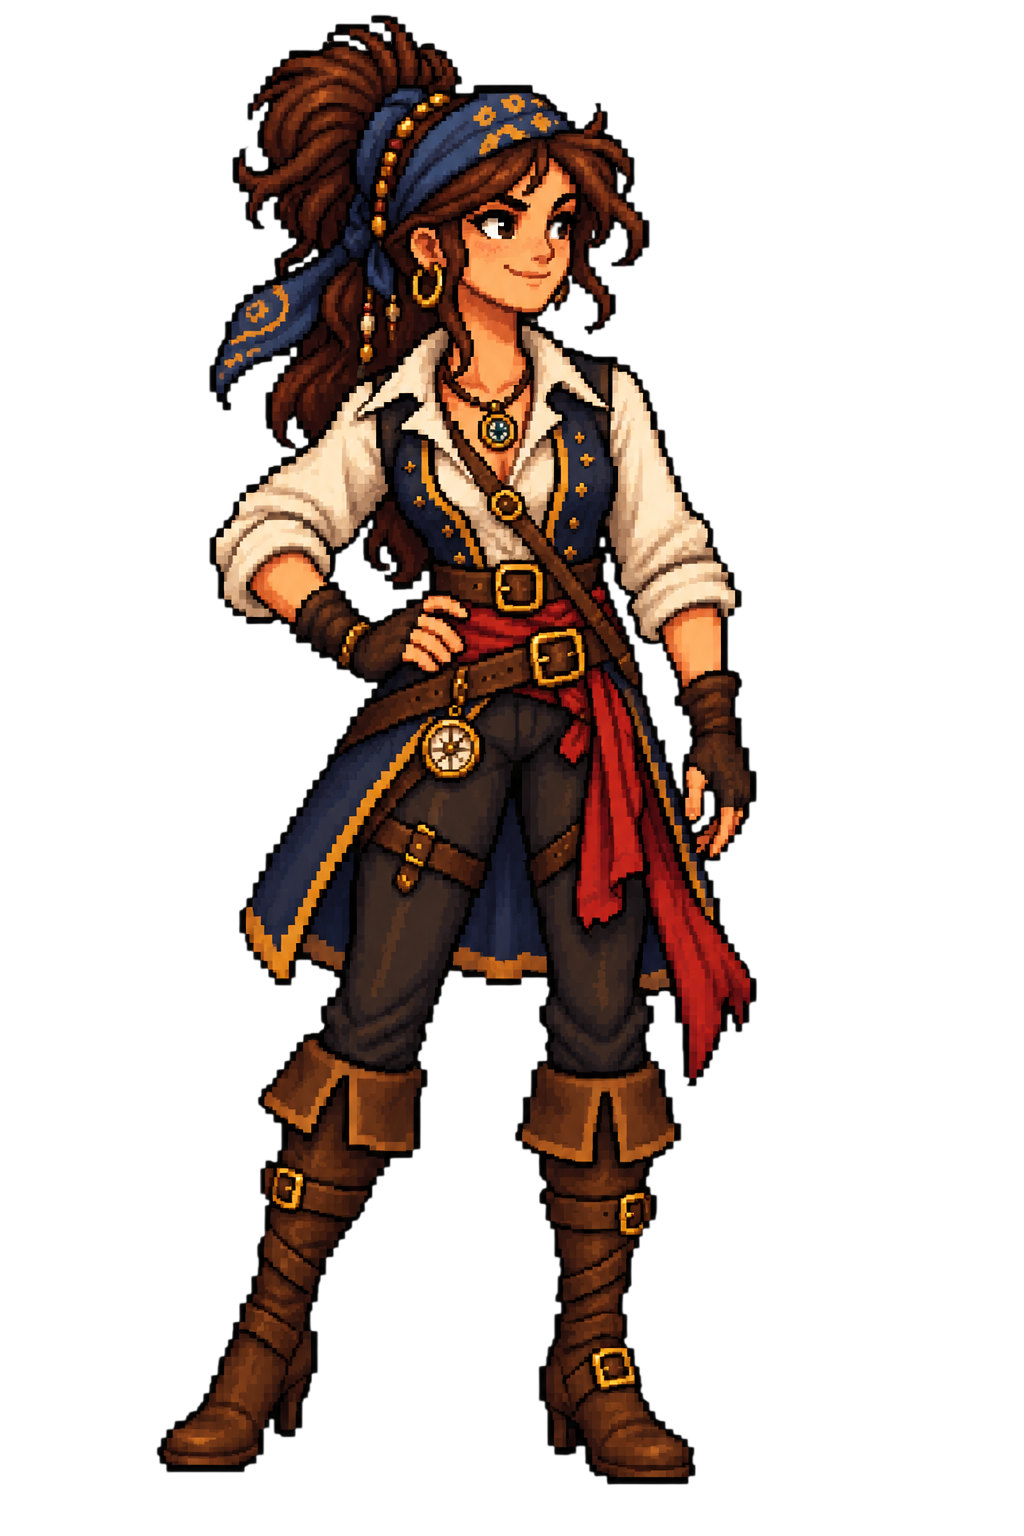
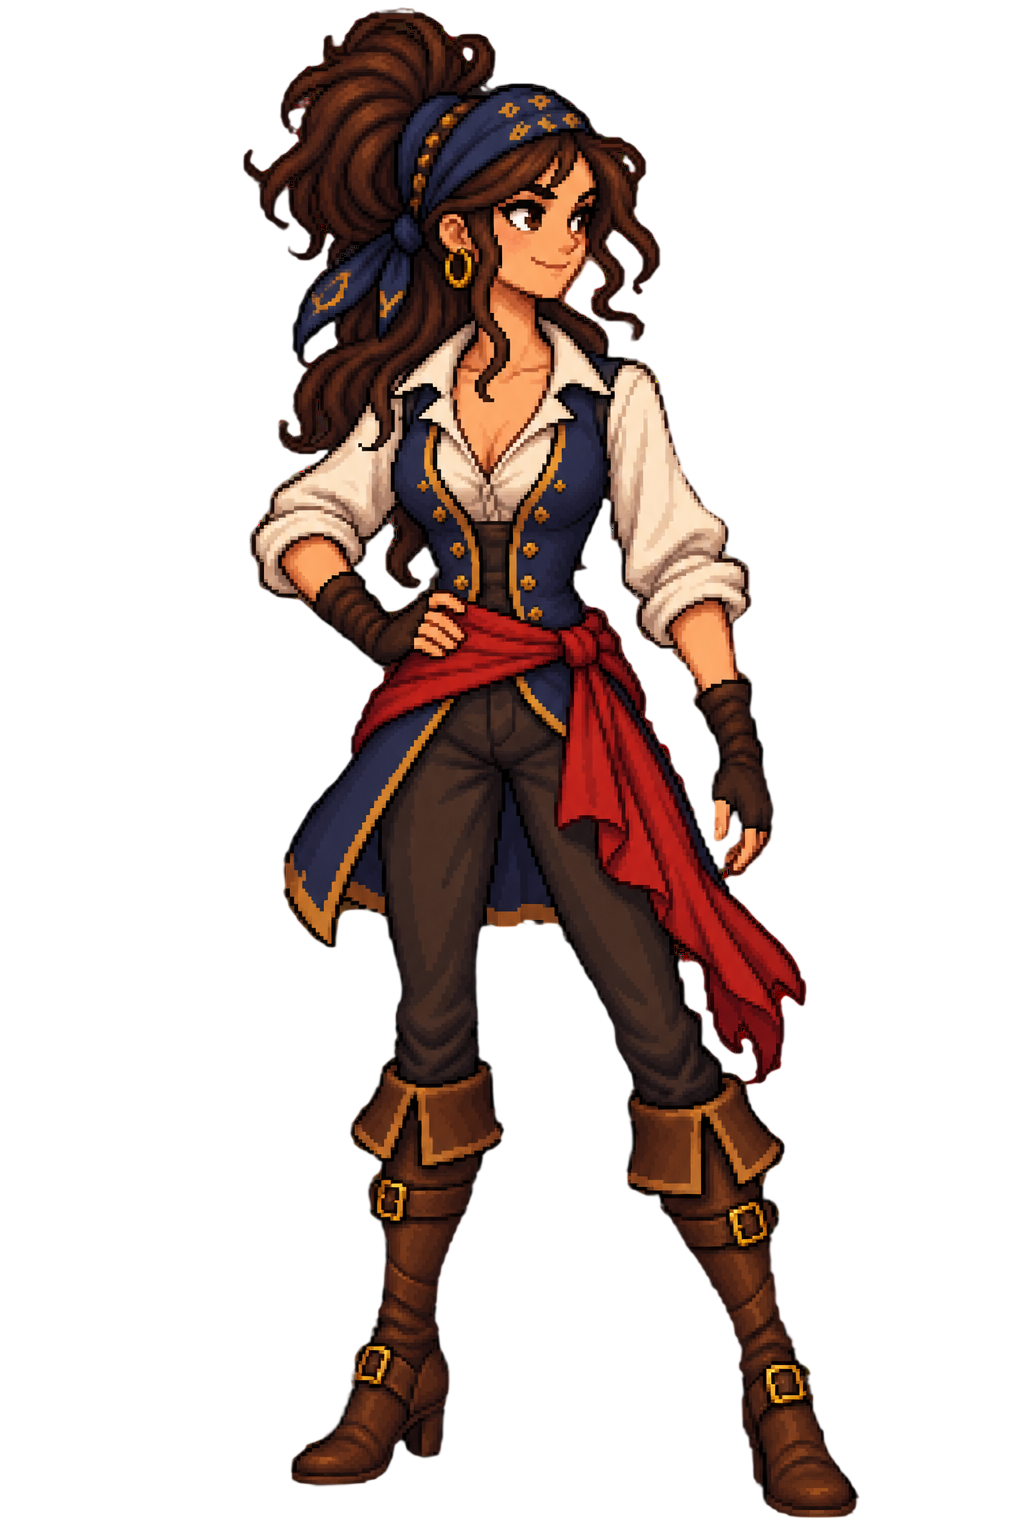
Quasi completamento dell'intero atto 1

diff --git a/gioco/src/main/java/game/gui/GamePanel.java b/gioco/src/main/java/game/gui/GamePanel.java
@@ -41,20 +41,83 @@ public class GamePanel extends BasePanel {
     }
     
     private static class SpriteScena {
-        final String percorsoImmagine;
-        final String idInterazione; // null se puramente decorativo
-        final int centroX, centroY, larghezza, altezza;
+    final String percorsoImmagine;
+    final String percorsoImmagineAlternativo; // null se non ha stati alternativi
+    final String flagCondizione;               // null se nessuna condizione (per lo switch immagine)
+    final String flagNascondiSe;                // null se non deve mai scomparire
+    final String flagCompletato;                // null se resta sempre cliccabile
+    final String idInterazione;                 // null se puramente decorativo
+    final int centroX, centroY, larghezza, altezza;
 
-        SpriteScena(String percorsoImmagine, String idInterazione,
-                    int centroX, int centroY, int larghezza, int altezza) {
-            this.percorsoImmagine = percorsoImmagine;
-            this.idInterazione = idInterazione;
-            this.centroX = centroX;
-            this.centroY = centroY;
-            this.larghezza = larghezza;
-            this.altezza = altezza;
-        }
+    // Costruttore semplice: nessuno stato alternativo, non scompare mai, sempre cliccabile
+    SpriteScena(String percorsoImmagine, String idInterazione,
+                int centroX, int centroY, int larghezza, int altezza) {
+        this(percorsoImmagine, null, null, null, null, idInterazione, centroX, centroY, larghezza, altezza);
     }
+
+    // Costruttore per sprite che cambia immagine in base a un flag (es. il fuoco)
+    SpriteScena(String percorsoImmagine, String percorsoImmagineAlternativo, String flagCondizione,
+                String idInterazione, int centroX, int centroY, int larghezza, int altezza) {
+        this(percorsoImmagine, percorsoImmagineAlternativo, flagCondizione, null, null,
+                idInterazione, centroX, centroY, larghezza, altezza);
+    }
+
+    // Costruttore completo
+    SpriteScena(String percorsoImmagine, String percorsoImmagineAlternativo, String flagCondizione,
+                String flagNascondiSe, String flagCompletato, String idInterazione,
+                int centroX, int centroY, int larghezza, int altezza) {
+        this.percorsoImmagine = percorsoImmagine;
+        this.percorsoImmagineAlternativo = percorsoImmagineAlternativo;
+        this.flagCondizione = flagCondizione;
+        this.flagNascondiSe = flagNascondiSe;
+        this.flagCompletato = flagCompletato;
+        this.idInterazione = idInterazione;
+        this.centroX = centroX;
+        this.centroY = centroY;
+        this.larghezza = larghezza;
+        this.altezza = altezza;
+    }
+
+    // Comodo per un oggetto che scompare quando raccolto, senza immagine alternativa
+    static SpriteScena raccoglibile(String percorsoImmagine, String idInterazione, String flagNascondiSe,
+                                     int centroX, int centroY, int larghezza, int altezza) {
+        return new SpriteScena(percorsoImmagine, null, null, flagNascondiSe, null,
+                idInterazione, centroX, centroY, larghezza, altezza);
+    }
+
+    // Sprite che resta visivamente uguale, ma diventa non-cliccabile dopo il completamento
+    static SpriteScena azioneUnica(String percorsoImmagine, String idInterazione, String flagCompletato,
+                                    int centroX, int centroY, int larghezza, int altezza) {
+        return new SpriteScena(percorsoImmagine, null, null, null, flagCompletato,
+                idInterazione, centroX, centroY, larghezza, altezza);
+    }
+    
+    // Sprite che cambia immagine quando viene completata l'interazione
+    static SpriteScena azioneConCambioImmagine(
+            String percorsoImmagine,
+            String percorsoImmagineAlternativo,
+            String idInterazione,
+            String flagCompletato,
+            int centroX,
+            int centroY,
+            int larghezza,
+            int altezza) {
+
+        return new SpriteScena(
+                percorsoImmagine,
+                percorsoImmagineAlternativo,
+                flagCompletato,
+                null,
+                flagCompletato,
+                idInterazione,
+                centroX,
+                centroY,
+                larghezza,
+                altezza
+        );
+    }
+
+}
 
     // idAtto -> idZona (mirror di GameManager.ZONE_PER_ATTO)
     private static final Map<String, String> ZONA_PER_ATTO = new HashMap<>();
@@ -115,13 +178,13 @@ public class GamePanel extends BasePanel {
     private static final Map<String, List<Hotspot>> HOTSPOT_PER_ZONA = new HashMap<>();
     static {
         HOTSPOT_PER_ZONA.put("spiaggia", List.of(
-                new Hotspot("int_spiaggia_legnetti", 300, 700, 150, 150),
+                //new Hotspot("int_spiaggia_legnetti", 300, 700, 150, 150),
                 //new Hotspot("int_spiaggia_navigatrice_lente", 600, 500, 150, 150),
-                new Hotspot("int_spiaggia_cespuglio", 900, 650, 150, 150),
+                //new Hotspot("int_spiaggia_cespuglio", 900, 650, 150, 150),
                 //new Hotspot("int_spiaggia_falo", 1100, 750, 150, 150),
-                new Hotspot("int_spiaggia_albero_cesto", 1300, 400, 150, 150),
+                //new Hotspot("int_spiaggia_albero_cesto", 1300, 400, 150, 150),
                 new Hotspot("int_spiaggia_combattente_cibo", 1450, 600, 150, 150),
-                new Hotspot("int_spiaggia_masso", 1550, 500, 150, 150),
+                //new Hotspot("int_spiaggia_masso", 1550, 500, 150, 150),
                 new Hotspot("int_spiaggia_ingresso_giungla", 1600, 300, 150, 150)
         ));
         HOTSPOT_PER_ZONA.put("giungla", List.of(
@@ -148,10 +211,26 @@ public class GamePanel extends BasePanel {
     private static final Map<String, List<SpriteScena>> SPRITE_PER_ZONA = new HashMap<>();
     static {
         SPRITE_PER_ZONA.put("spiaggia", List.of(
-                new SpriteScena("/assets/personaggi/Capitano.png", null, 400, 550, 200, 300),
-                new SpriteScena("/assets/personaggi/Combattente.png", null, 800, 550, 200, 300),
-                new SpriteScena("/assets/personaggi/Navigatrice.png", null, 600, 500, 150, 150),
-                new SpriteScena("/assets/oggetto/Fuoco.png", "int_spiaggia_falo", 1100, 750, 150, 150)
+                new SpriteScena("/assets/Personaggi/Capitano.png", null, 400, 550, 200, 300),
+                new SpriteScena("/assets/Personaggi/Combattente.png", "int_spiaggia_combattente_cibo", 800, 550, 200, 300),
+                SpriteScena.azioneUnica("/assets/Personaggi/Navigatrice.png", "int_spiaggia_navigatrice_lente",
+                        "o1", 600, 530, 200, 300),
+
+                new SpriteScena("/assets/Oggetti/FuocoSpento.png", "/assets/Oggetti/FuocoAcceso.png",
+                        "o10", null, "o10", "int_spiaggia_falo", 1100, 750, 150, 150)
+        ));
+        SPRITE_PER_ZONA.put("spiaggiaest", List.of(
+                new SpriteScena("/assets/Oggetti/Legnetti.png", "int_spiaggia_legnetti", 350, 800, 220, 160)
+        ));
+        SPRITE_PER_ZONA.put("spiaggiaovest", List.of( 
+                SpriteScena.azioneConCambioImmagine( "/assets/Oggetti/CespuglioConFoglieSecche.png", 
+                    "/assets/Oggetti/Cespuglio.png", "int_spiaggia_cespuglio", "o3", 900, 650, 150, 150 ) 
+        ));
+        SPRITE_PER_ZONA.put("entratagiungla", List.of(
+                SpriteScena.azioneConCambioImmagine("/assets/Oggetti/CestoPieno.png", "/assets/Oggetti/CestoVuoto.png", 
+                    "int_spiaggia_albero_cesto", "o4", 1200, 200, 200, 200),
+                SpriteScena.azioneUnica("/assets/Oggetti/GrandeMasso.png", "int_spiaggia_masso",
+                        "o18", 800, 600, 275, 200)
         ));
     }
     // ==================== Box dialogo (visual novel) ====================
@@ -409,21 +488,69 @@ public class GamePanel extends BasePanel {
     }
 
     private void ricreaSprite(String idZona) {
-        rimuoviSpriteAttuali();
+    rimuoviSpriteAttuali();
 
-        List<SpriteScena> sprite = SPRITE_PER_ZONA.getOrDefault(idZona, List.of());
-        for (SpriteScena s : sprite) {
-            JButton bottoneSprite = new JButton(new ImageIcon(getClass().getResource(s.percorsoImmagine)));
+    List<SpriteScena> sprite = SPRITE_PER_ZONA.getOrDefault(idZona, List.of());
+    for (SpriteScena s : sprite) {
 
-            if (s.idInterazione != null) {
-                bottoneSprite.setCursor(Cursor.getPredefinedCursor(Cursor.HAND_CURSOR));
-                bottoneSprite.addActionListener(e ->
-                        gameManager.getInterazioneObserver().tentaInterazione(s.idInterazione));
-            }
-
-            gestore.registra(bottoneSprite, s.centroX, s.centroY, s.larghezza, s.altezza);
-            spriteAttivi.add(bottoneSprite);
+        if (s.flagNascondiSe != null
+                && gameManager.getInventarioManager().hasOggetto(s.flagNascondiSe)) {
+            continue;
         }
+
+        String percorsoDaUsare = percorsoAttualeSprite(s);
+
+        java.net.URL risorsa = getClass().getResource(percorsoDaUsare);
+        if (risorsa == null) {
+            System.err.println("GamePanel: risorsa non trovata: " + percorsoDaUsare);
+            continue;
+        }
+
+        JButton bottoneSprite = new JButton(new ImageIcon(risorsa));
+
+        boolean giaCompletato = s.flagCompletato != null
+                && gameManager.getInventarioManager().hasOggetto(s.flagCompletato);
+
+
+        if (s.idInterazione != null && !giaCompletato) {
+            bottoneSprite.setCursor(Cursor.getPredefinedCursor(Cursor.HAND_CURSOR));
+
+            bottoneSprite.addActionListener(e -> {
+                gameManager.getInterazioneObserver()
+                        .tentaInterazione(s.idInterazione);
+
+                SwingUtilities.invokeLater(() -> {
+                    if (zonaCorrente != null) {
+                        ricreaSprite(zonaCorrente);
+                    }
+                });
+            });
+        }
+
+
+
+        gestore.registra(bottoneSprite, s.centroX, s.centroY, s.larghezza, s.altezza);
+        spriteAttivi.add(bottoneSprite);
+    }
+}
+
+    /** Restituisce il percorso immagine corretto per lo sprite, in base al flag associato (se presente). */
+    private String percorsoAttualeSprite(SpriteScena s) {
+
+        // Se esiste una condizione per cambiare immagine
+        if (s.flagCondizione != null
+                && s.percorsoImmagineAlternativo != null) {
+
+            boolean condizioneAttiva =
+                    gameManager.getInventarioManager()
+                            .hasOggetto(s.flagCondizione);
+
+            if (condizioneAttiva) {
+                return s.percorsoImmagineAlternativo;
+            }
+        }
+
+        return s.percorsoImmagine;
     }
     
     private void rimuoviFrecceMovimento() {
